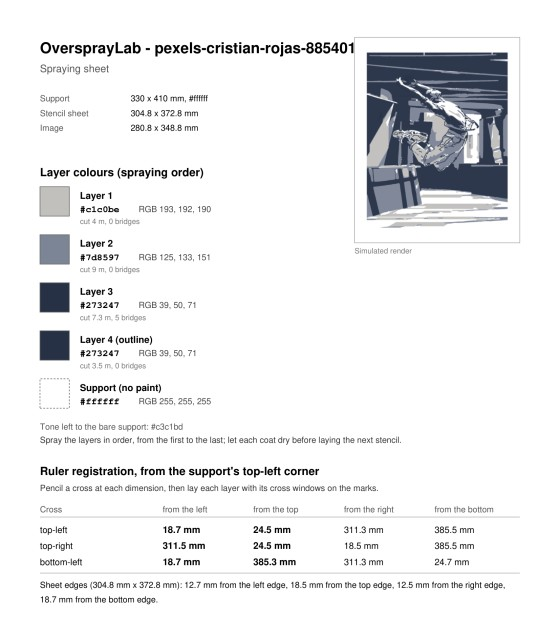
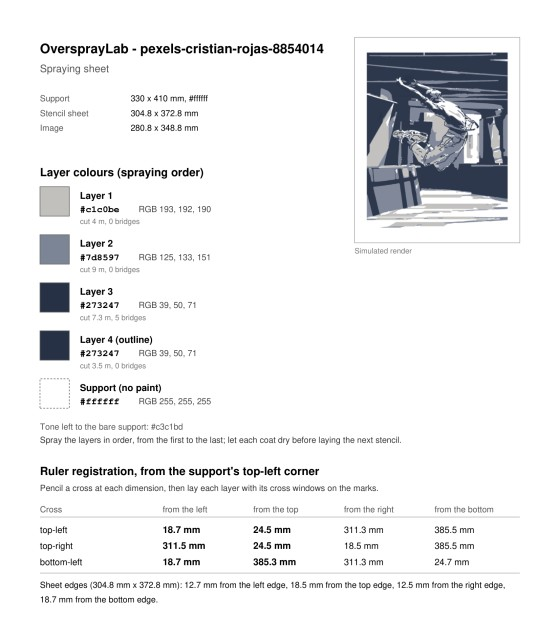
Spraying sheet: fit a long project title beside the render
The title "OversprayLab - <name>" ran under the simulated render. It now shrinks
(down to 12 pt) to fit the room left of the render, then goes onto two lines with
the name shortened by an ellipsis if needed.

Changed region(s): [[0.0607, 0.0597, 0.6375, 0.0895]]

diff --git a/overspraylab/svg_export.py b/overspraylab/svg_export.py
@@ -14,7 +14,7 @@ import zipfile
 import cv2
 import numpy as np
 
-from .pdf_sheet import Pdf, wrap
+from .pdf_sheet import Pdf, text_width, wrap
 from .pipeline import (Result, bgr_hex, layer_stats, positioning, registration_shapes, simulate, simulate_sheet,
                        support_overlap)
 
@@ -435,8 +435,6 @@ def sheet_pdf(res: Result, name: str) -> bytes:
     pdf = Pdf()
     L0, R0 = 15.0, 195.0                       # text margins (mm)
     colon = " : " if _LANG.get() == "fr" else ": "
-    pdf.text(L0, 20, f"OversprayLab - {name}", 16, bold=True)
-    pdf.text(L0, 27, T("Spraying sheet"), 11, color="#555555")
 
     # simulated render, top right
     sim = simulate(res)
@@ -451,6 +449,21 @@ def sheet_pdf(res: Result, name: str) -> bytes:
     pdf.image(jpg.tobytes(), sim.shape[1], sim.shape[0], ix, iy, iw, ih)
     pdf.rect(ix, iy, iw, ih, stroke="#999999", line_w=0.2)
     pdf.text(ix, iy + ih + 4, T("Simulated render"), 8, color="#777777")
+
+    # title, left of the render: smaller font for a long project name, then a second line
+    title, room = f"OversprayLab - {name}", ix - 5 - L0
+    size = 16.0
+    while size > 12 and text_width(title, size, bold=True) * 1.05 > room:
+        size -= 0.5
+    lines = [title]
+    if text_width(title, size, bold=True) * 1.05 > room:
+        lines = ["OversprayLab -", name]
+        while text_width(lines[1], size, bold=True) * 1.05 > room and len(lines[1]) > 1:
+            lines[1] = lines[1][:-2] + "…"
+    ty = 20.0 if len(lines) == 1 else 17.0
+    for i, ln in enumerate(lines):
+        pdf.text(L0, ty + i * size * 0.42, ln, size, bold=True)
+    pdf.text(L0, 27 if len(lines) == 1 else 31, T("Spraying sheet"), 11, color="#555555")
 
     sw, sh = res.support_mm
     y = 38.0
